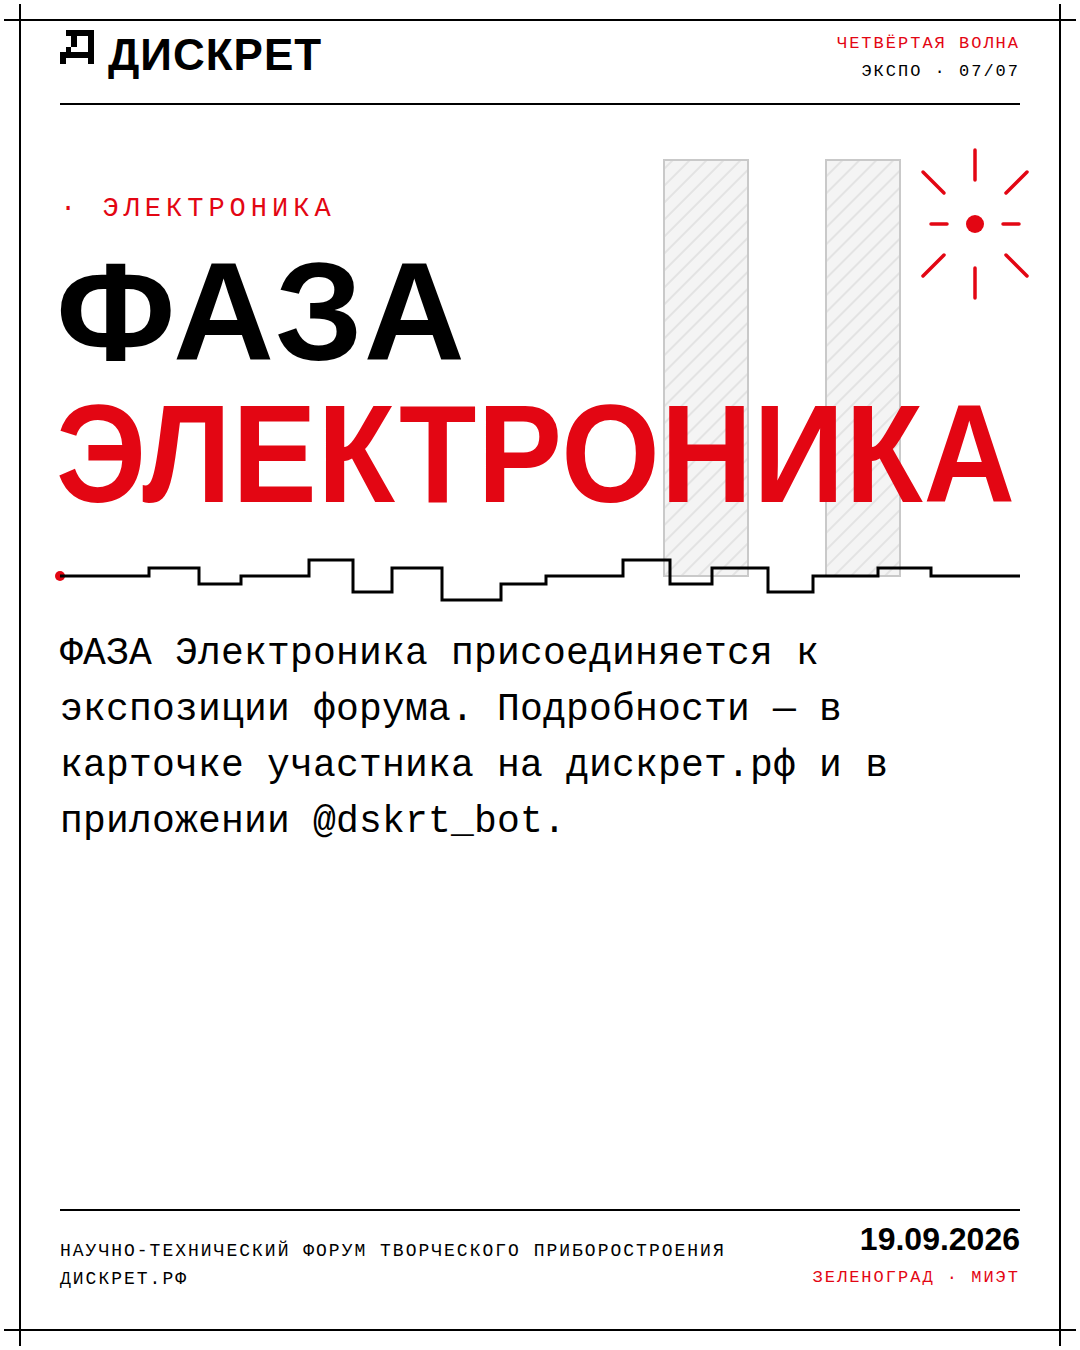
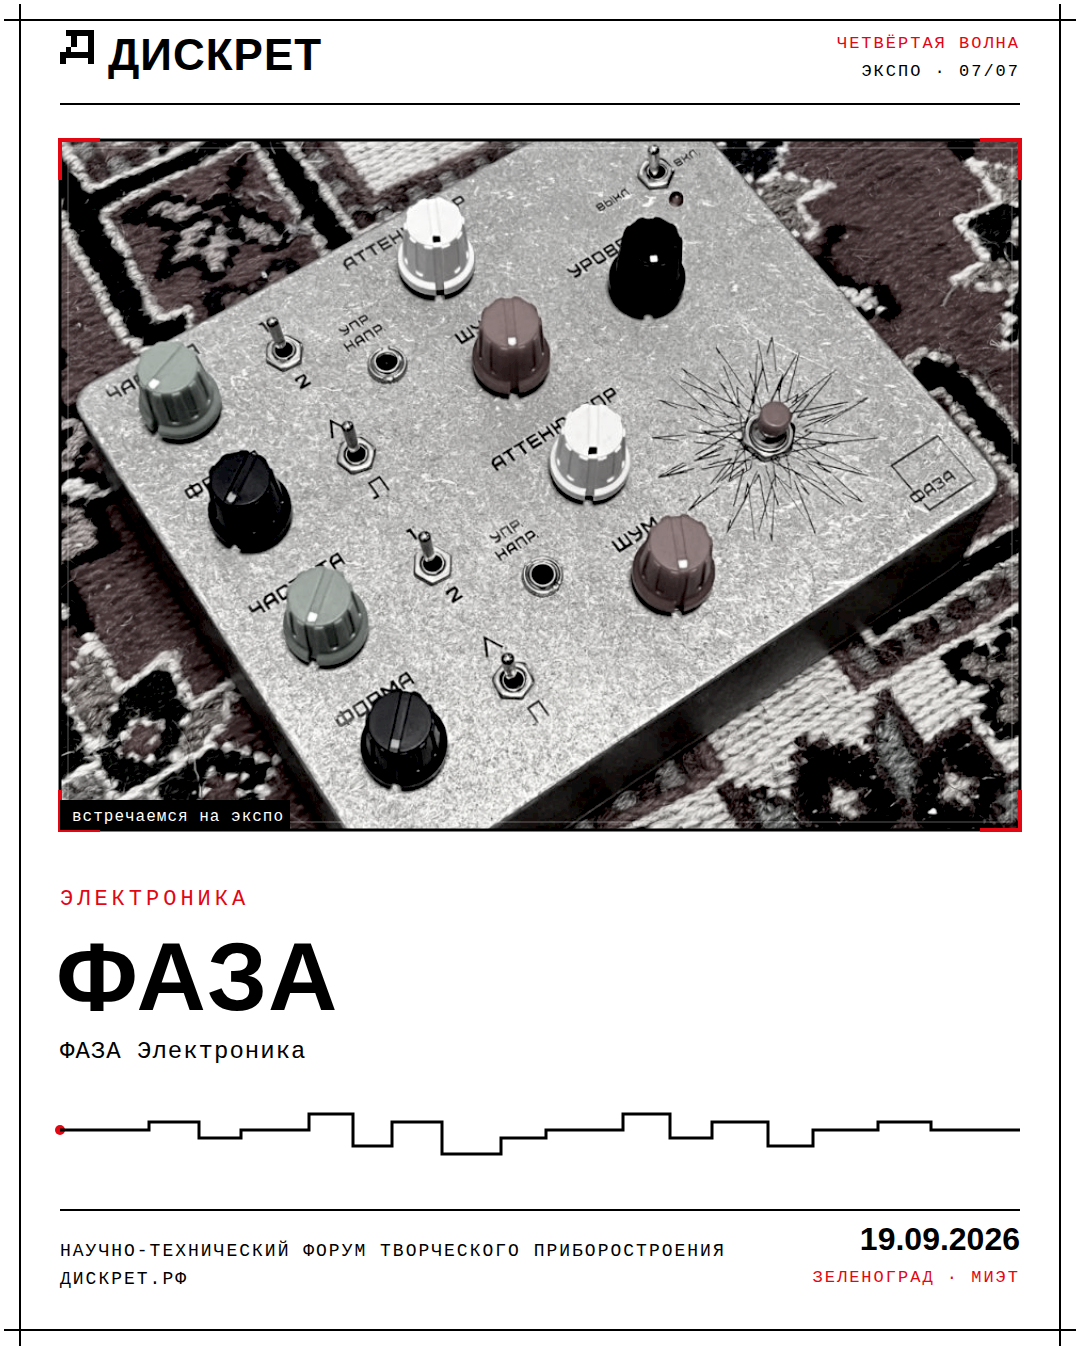
Фото ФАЗЫ и Резонанса, правки оргкоманды
- карточки участников: ФАЗА (фото прибора), Резонанс (3 рендера
  Resonance-1); карточки волн w3-rezonans и w4-faza стали фото-версиями
- оргкоманда: Новиков Максим (без отчества), Слуцкий — образование · арт

Claude-Session: https://claude.ai/code/session_01J7cakNvVwscKzgnd8yf78u

diff --git a/branding/app/index.html b/branding/app/index.html
@@ -375,7 +375,7 @@
 </div>
 
 <script>
-window.PHOTOS = {"ac1":"photos/ac1.jpg","ac2":"photos/ac2.jpg","alphaseq":"photos/alphaseq.jpg","arch1":"photos/arch1.jpg","arch2":"photos/arch2.jpg","astrovox":"photos/astrovox.jpg","bj":"photos/bj.jpg","bj2":"photos/bj2.jpg","bj3":"photos/bj3.jpg","hgx":"photos/hgx.jpg","hgx2":"photos/hgx2.jpg","hruine1":"photos/hruine1.jpg","laser":"photos/laser.jpg","laser1":"photos/laser1.jpg","laser2":"photos/laser2.jpg","lnlogo":"photos/lnlogo.png","lnreal":"photos/lnreal.png","moub1":"photos/moub1.jpg","para":"photos/para.jpg","para2":"photos/para2.jpg","para3":"photos/para3.jpg","shadow1":"photos/shadow1.jpg","shadow2":"photos/shadow2.jpg","spacekir1":"photos/spacekir1.jpg","sx":"photos/sx.jpg","sx2":"photos/sx2.jpg","sxlab":"photos/sxlab.jpg","tamogni1":"photos/tamogni1.jpg","tiihaya1":"photos/tiihaya1.jpg","tiihaya2":"photos/tiihaya2.jpg","tiihaya3":"photos/tiihaya3.jpg","tw":"photos/tw.jpg","tw2":"photos/tw2.jpg","tw3":"photos/tw3.jpg","tw4":"photos/tw4.jpg","vg":"photos/vg.jpg","vg1":"photos/vg1.jpg","vg2":"photos/vg2.jpg","vg3":"photos/vg3.jpg","kaledoscope":"photos/kaledoscope.jpg","unost":"photos/unost.jpg","porky1":"photos/porky1.jpg","moon1":"photos/moon1.jpg","prov1":"photos/prov1.jpg","prov2":"photos/prov2.jpg","sl1":"photos/sl1.jpg","sl2":"photos/sl2.jpg","org_novikov":"photos/org_novikov.jpg","org_grigoriev":"photos/org_grigoriev.jpg","org_slutsky":"photos/org_slutsky.jpg","org_boykov":"photos/org_boykov.jpg","tr1":"photos/tr1.jpg","mayak":"photos/mayak.jpg","pribor1":"photos/pribor1.jpg","lg_picaso":"photos/lg_picaso.svg","lg_soyuz":"photos/lg_soyuz.jpg","lg_baklazhania":"photos/lg_baklazhania.svg","lg_efemi":"photos/lg_efemi.svg","lg_angstrem":"photos/lg_angstrem.svg","lg_ioaudio":"photos/lg_ioaudio.svg","lg_flataudio":"photos/lg_flataudio.svg","lg_infoportal":"photos/lg_infoportal.svg","lg_lasernoto":"photos/lg_lasernoto.svg"};
+window.PHOTOS = {"ac1":"photos/ac1.jpg","ac2":"photos/ac2.jpg","alphaseq":"photos/alphaseq.jpg","arch1":"photos/arch1.jpg","arch2":"photos/arch2.jpg","astrovox":"photos/astrovox.jpg","bj":"photos/bj.jpg","bj2":"photos/bj2.jpg","bj3":"photos/bj3.jpg","hgx":"photos/hgx.jpg","hgx2":"photos/hgx2.jpg","hruine1":"photos/hruine1.jpg","laser":"photos/laser.jpg","laser1":"photos/laser1.jpg","laser2":"photos/laser2.jpg","lnlogo":"photos/lnlogo.png","lnreal":"photos/lnreal.png","moub1":"photos/moub1.jpg","para":"photos/para.jpg","para2":"photos/para2.jpg","para3":"photos/para3.jpg","shadow1":"photos/shadow1.jpg","shadow2":"photos/shadow2.jpg","spacekir1":"photos/spacekir1.jpg","sx":"photos/sx.jpg","sx2":"photos/sx2.jpg","sxlab":"photos/sxlab.jpg","tamogni1":"photos/tamogni1.jpg","tiihaya1":"photos/tiihaya1.jpg","tiihaya2":"photos/tiihaya2.jpg","tiihaya3":"photos/tiihaya3.jpg","tw":"photos/tw.jpg","tw2":"photos/tw2.jpg","tw3":"photos/tw3.jpg","tw4":"photos/tw4.jpg","vg":"photos/vg.jpg","vg1":"photos/vg1.jpg","vg2":"photos/vg2.jpg","vg3":"photos/vg3.jpg","kaledoscope":"photos/kaledoscope.jpg","unost":"photos/unost.jpg","faza1":"photos/faza1.jpg","rez1":"photos/rez1.jpg","rez2":"photos/rez2.jpg","rez3":"photos/rez3.jpg","porky1":"photos/porky1.jpg","moon1":"photos/moon1.jpg","prov1":"photos/prov1.jpg","prov2":"photos/prov2.jpg","sl1":"photos/sl1.jpg","sl2":"photos/sl2.jpg","org_novikov":"photos/org_novikov.jpg","org_grigoriev":"photos/org_grigoriev.jpg","org_slutsky":"photos/org_slutsky.jpg","org_boykov":"photos/org_boykov.jpg","tr1":"photos/tr1.jpg","mayak":"photos/mayak.jpg","pribor1":"photos/pribor1.jpg","lg_picaso":"photos/lg_picaso.svg","lg_soyuz":"photos/lg_soyuz.jpg","lg_baklazhania":"photos/lg_baklazhania.svg","lg_efemi":"photos/lg_efemi.svg","lg_angstrem":"photos/lg_angstrem.svg","lg_ioaudio":"photos/lg_ioaudio.svg","lg_flataudio":"photos/lg_flataudio.svg","lg_infoportal":"photos/lg_infoportal.svg","lg_lasernoto":"photos/lg_lasernoto.svg"};
 // фото лежат отдельными файлами в photos/ и подгружаются лениво
 const ORG = {
   inst: [
@@ -394,9 +394,9 @@ const ORG = {
   ],
   people: [
     { name:"Александр Григорьев", role:"организатор форума", photo:"org_grigoriev" },
-    { name:"Новиков Максим Сергеевич", role:"риск-менеджмент · ИТ · дизайн", photo:"org_novikov" },
+    { name:"Новиков Максим", role:"риск-менеджмент · ИТ · дизайн", photo:"org_novikov" },
     { name:"Антон Бойков", role:"административное · финансы", photo:"org_boykov" },
-    { name:"Олег Слуцкий", role:"merchandise", photo:"org_slutsky" },
+    { name:"Олег Слуцкий", role:"образование · арт", photo:"org_slutsky" },
   ],
 }
 const EVENT = { date:"19.09.2026", place:"Зеленоград · МИЭТ", total:20, tickets:"https://flat.audio/e/2470" };
@@ -658,8 +658,8 @@ const C = [
     desc:"Арт-лаборатория Яндекса «Techno Sound Art». На форуме представит ЯНЕ1 — гибридный синтезатор полностью собственной разработки: схема, дизайн и ПО созданы внутри лаборатории.",
     feat:"Полностью новая разработка лаборатории; пресеты на реальных данных — например, GPS-маршрутах роверов-доставщиков." },
   { id:"edwards", name:"Edwards-audio", role:"Аудиолаборатория", photos:[], members:[], links:[], desc:"" },
-  { id:"faza", name:"ФАЗА Электроника", role:"—", photos:[], members:[], links:[], desc:"" },
-  { id:"rezonans", name:"Резонанс", role:"Электронные музыкальные инструменты", photos:[], members:[], links:[],
+  { id:"faza", name:"ФАЗА Электроника", role:"—", photos:["faza1"], members:[], links:[], desc:"" },
+  { id:"rezonans", name:"Резонанс", role:"Электронные музыкальные инструменты", photos:["rez1","rez2","rez3"], members:[], links:[],
     desc:"Resonance-1 — электронный музыкальный инструмент, вдохновляющий на эксперименты и выход за рамки традиционного синтеза звука.\n\nВ основе его работы — генерация резонансов в спектре с помощью фильтров и систем обратной связи, придающих звучанию нелинейный, экспрессивный характер." },
   { id:"porkysynth", name:"PORKYSYNTH", role:"DIY-модульные синтезаторы · Челябинск", photos:["porky1"],
     members:[{name:"Роман Торхов"}], links:[],
